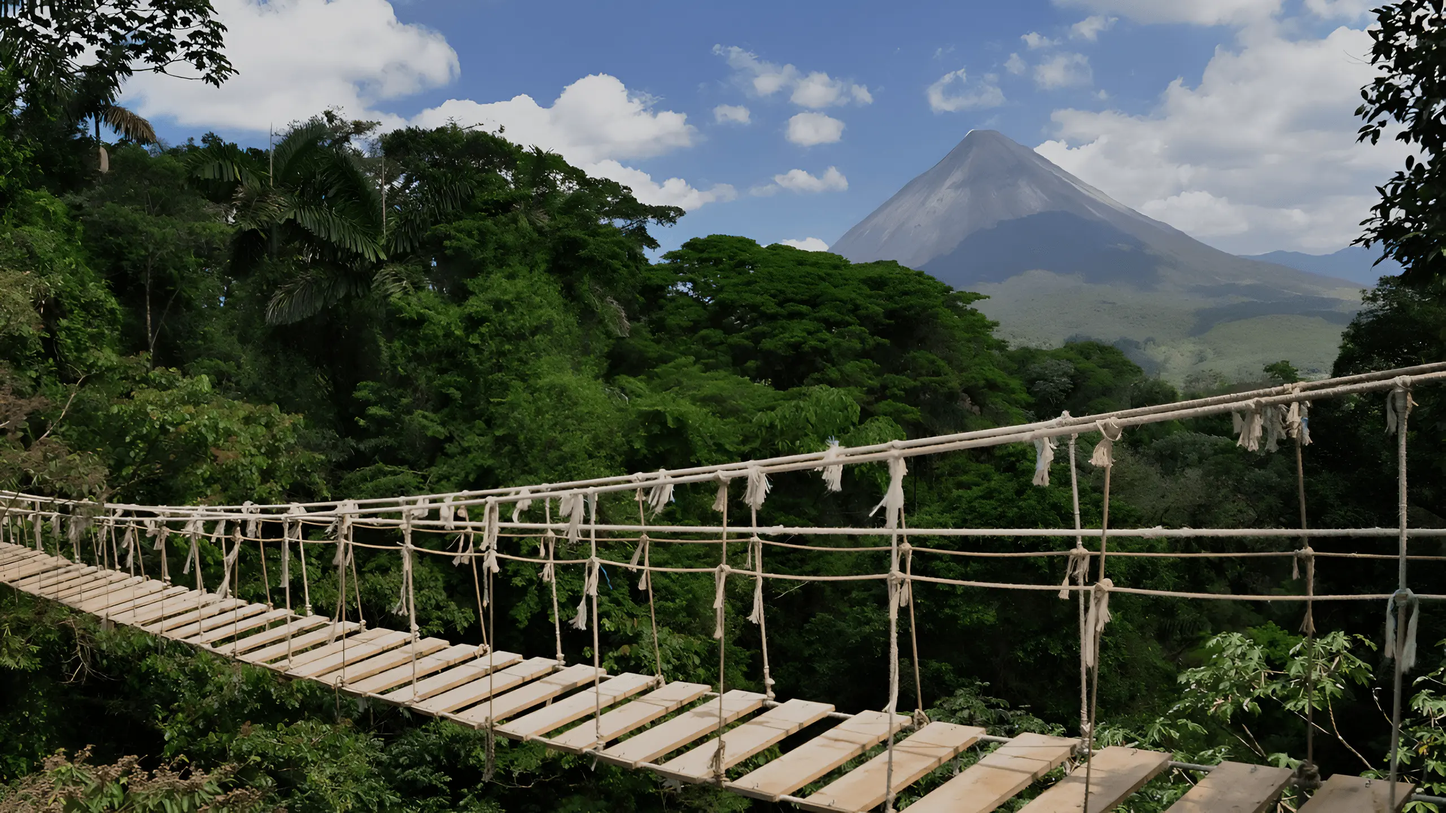
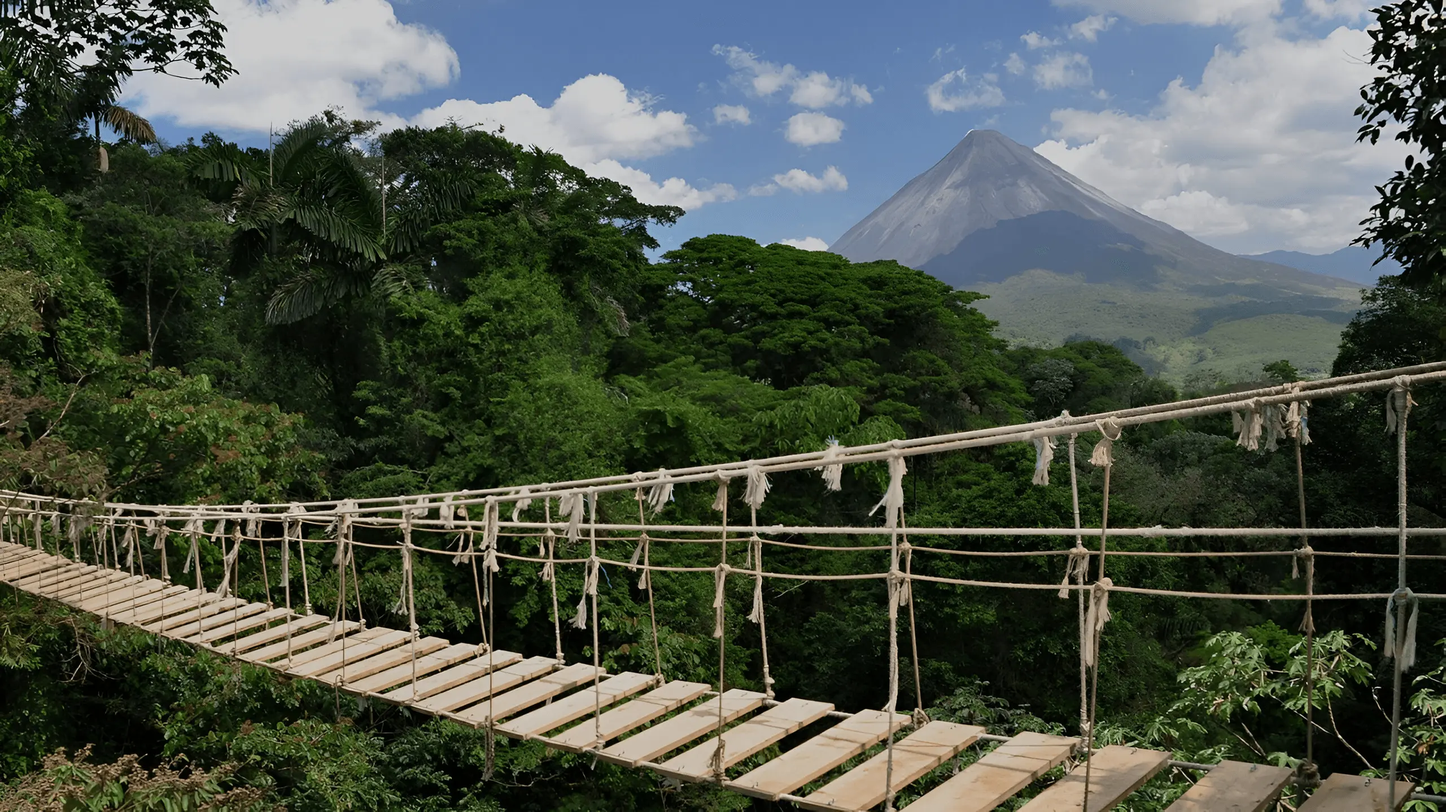
nn

diff --git a/src/components/home/DestinationGallery.tsx b/src/components/home/DestinationGallery.tsx
@@ -7,7 +7,7 @@ const DestinationGallery = () => {
 
   const destinations = [
     {
-      src: '/home/destination1.jpeg',
+      src: '/home/destination1.webp',
       alt: t("destination1.alt"),
       label: t("destination1.label")
     },
@@ -17,30 +17,31 @@ const DestinationGallery = () => {
       label: t("destination2.label")
     },
     {
-      src: '/home/destination3.jpeg',
+      src: '/home/destination3.webp',
       alt: t("destination3.alt"),
       label: t("destination3.label")
     },
     {
-      src: '/home/destination4.jpeg',
+      src: '/home/destination4.webp',
       alt: t("destination4.alt"),
       label: t("destination4.label")
     },
   ];
 
   return (
-    <div className="py-12 px-4 md:px-6 bg-white">
-      <div className="mb-10 md:mb-16 text-center max-w-5xl mx-auto">
+    <div className="py-6 px-4 md:px-6 bg-white">
+
+      <div className="mb-8 text-center max-w-5xl mx-auto ">
         <h2 className="text-2xl md:text-3xl font-light text-gray-700 leading-relaxed">
           {t("heading")}
         </h2>
       </div>
       
-      <div className="flex flex-wrap justify-center items-start relative">
+      <div className="flex flex-wrap justify-center items-start relative ">
         {destinations.map((destination, index) => (
           <div 
             key={index} 
-            className={`w-full sm:w-1/2 md:w-64 p-3 md:mx-4 z-10 transition-transform duration-300 hover:scale-105 ${
+            className={`max-w-full w-full sm:w-1/2 md:w-80 p-1 sm:p-0 md:mx-4 z-10 transition-transform duration-300 hover:scale-105 ${
               index % 2 !== 0 ? 'mt-0 sm:mt-16' : ''
             }`}
           >
@@ -48,8 +49,8 @@ const DestinationGallery = () => {
               <Image
                 src={destination.src}
                 alt={destination.alt}
-                width={300}
-                height={300}
+                width={1920}
+                height={0}
                 className="w-full h-auto object-cover"
               />
               <div className="absolute bottom-0 left-0 right-0 bg-black bg-opacity-70 transform translate-y-full group-hover:translate-y-0 transition-transform duration-300 p-3">

diff --git a/src/components/general/Footer.tsx b/src/components/general/Footer.tsx
@@ -7,7 +7,7 @@ export default function Footer() {
   const t = useTranslations('footer');
 
   return (
-    <footer className="bg-white px-4 py-2 sm:py-6 mt-3">
+    <footer className="bg-white px-4 py-5 sm:py-6">
       <div className="container mx-auto">
         <div className="grid grid-cols-1 md:grid-cols-3 gap-8 items-center">
           {/* Logo section */}
